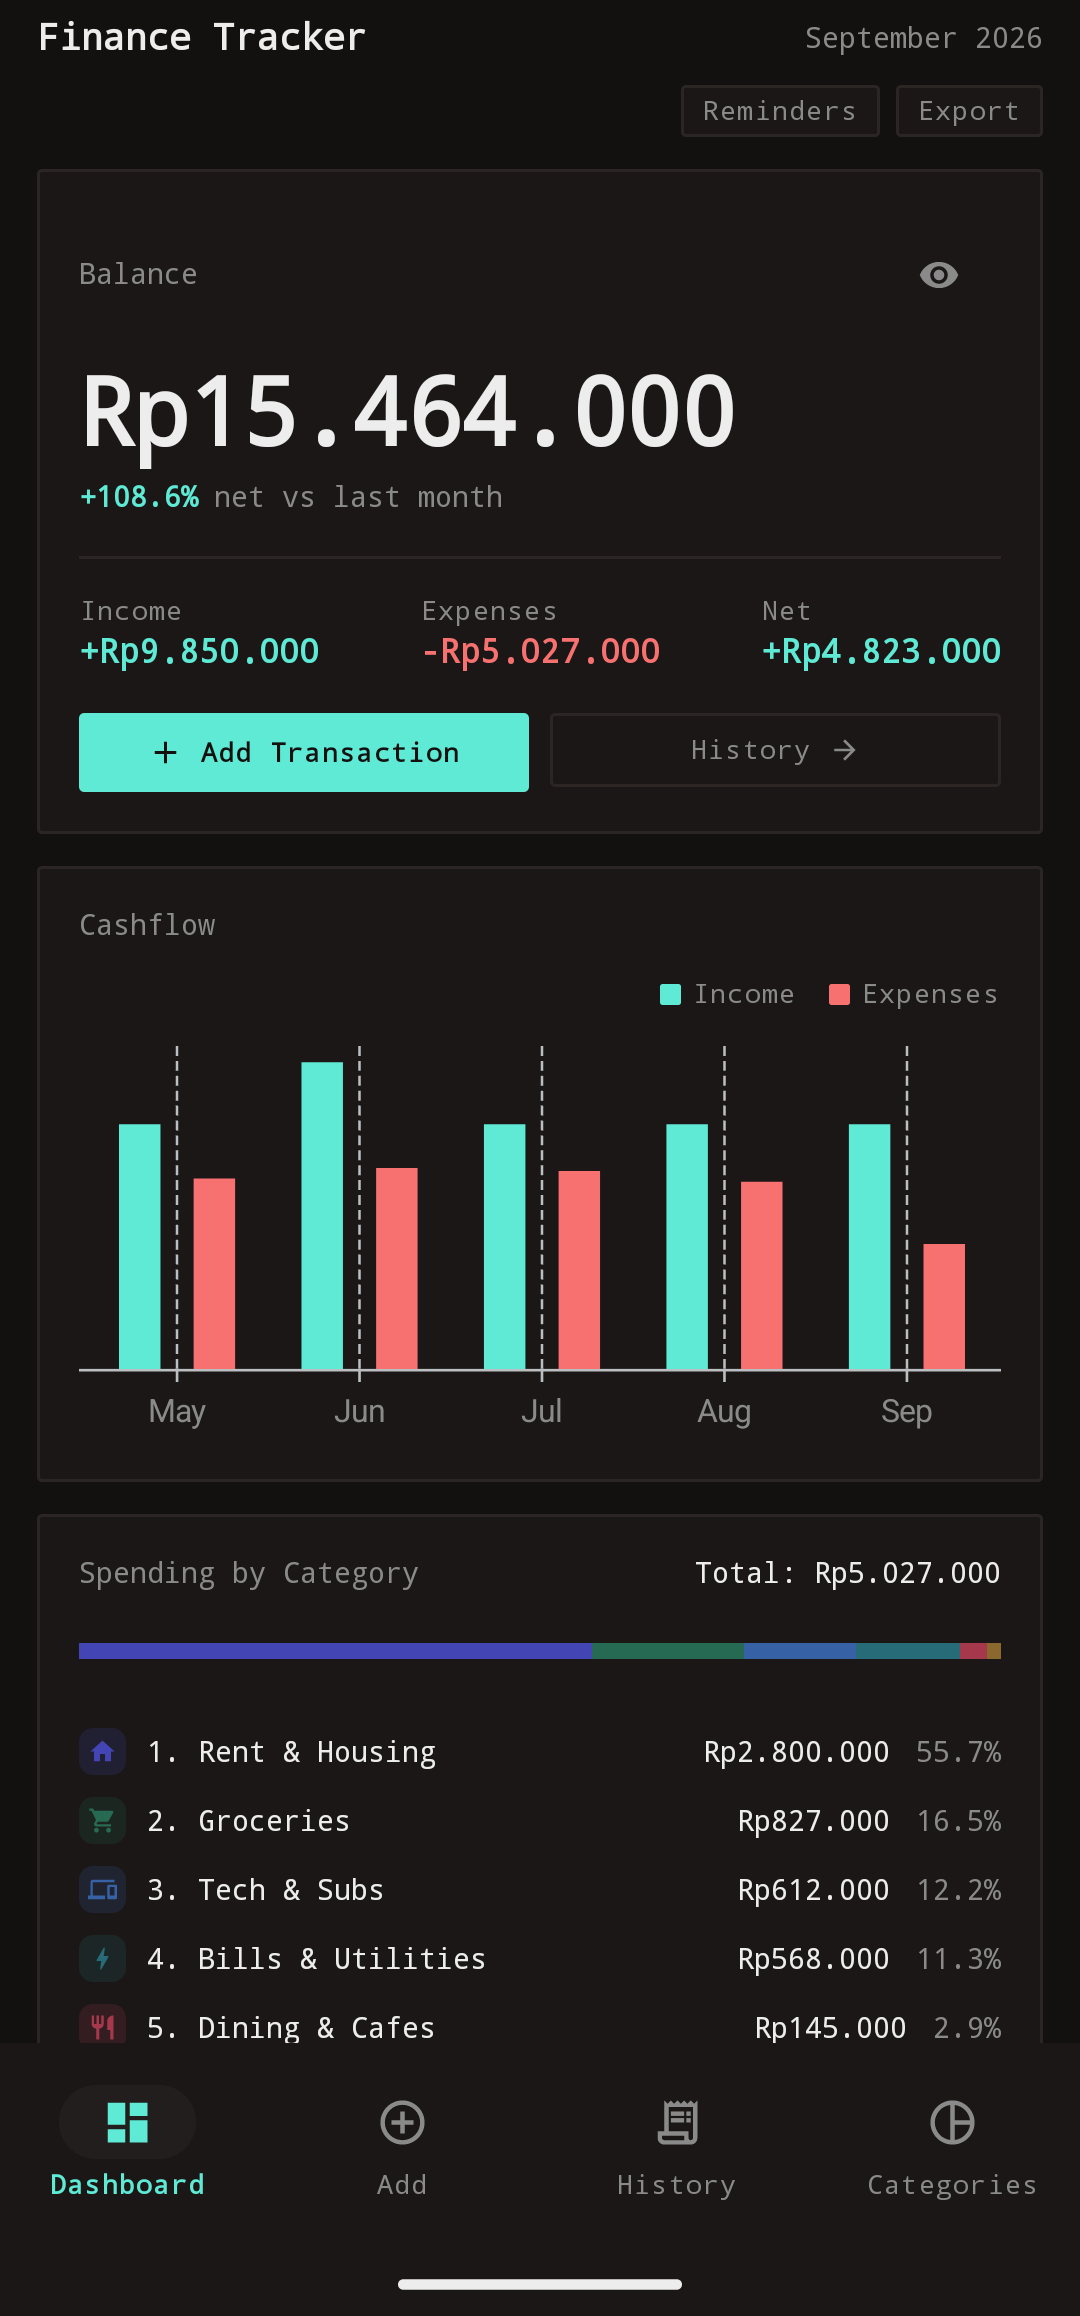
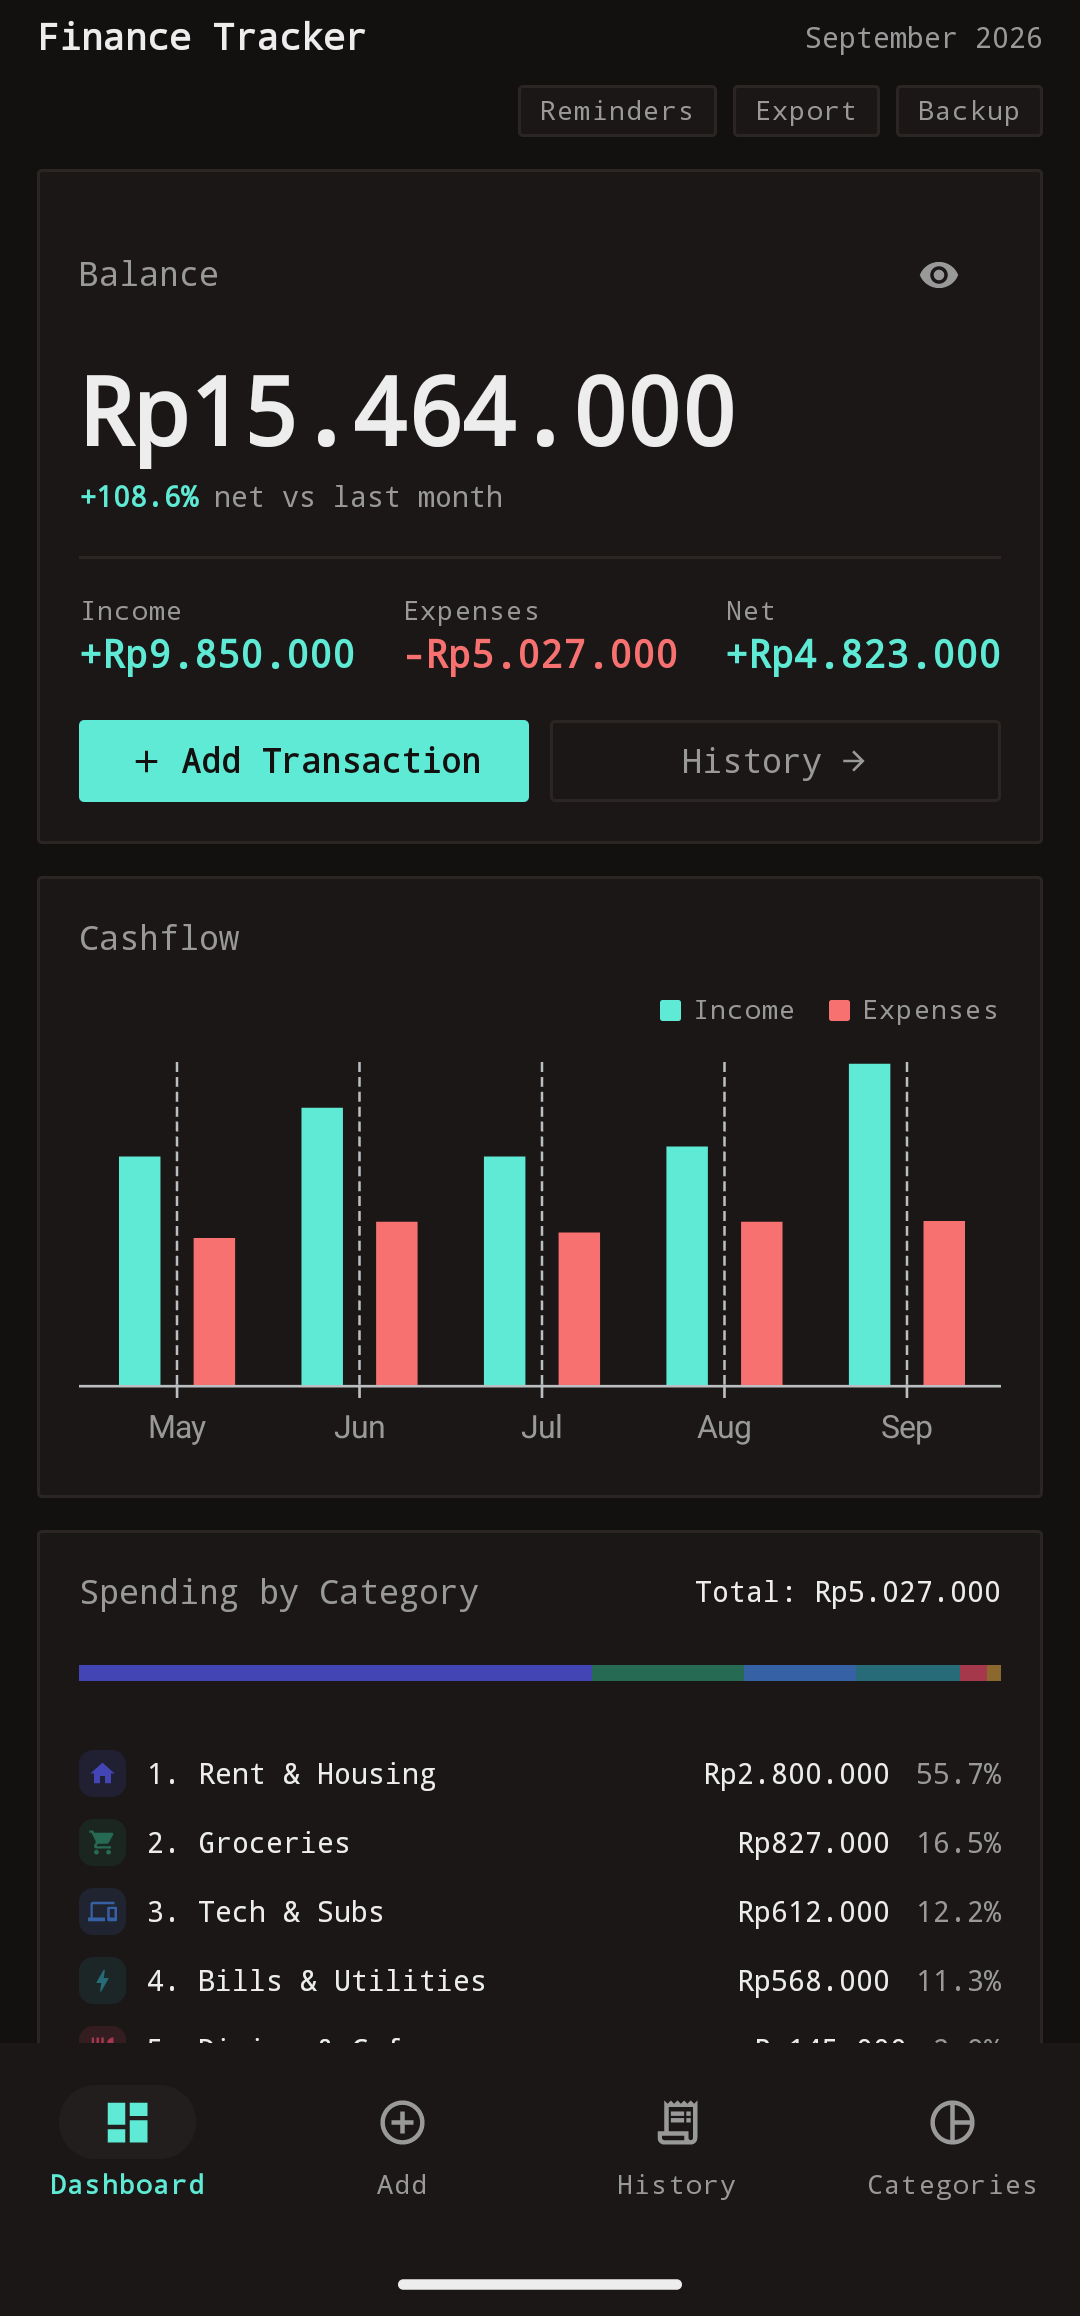
docs: refresh README screenshots (post design-audit) and add Reminders/Export/Backup

diff --git a/README.md b/README.md
@@ -17,29 +17,43 @@ A local-first Android expense & income tracker built with Jetpack Compose.
 
 <table>
   <tr>
-    <td align="center" width="50%">
-      <img src="Asset/screenshots/dashboard.png" width="270" alt="Dashboard"><br>
+    <td align="center" width="33%">
+      <img src="Asset/screenshots/dashboard.png" width="200" alt="Dashboard"><br>
       <b>Dashboard</b> — balance, cashflow, category breakdown
     </td>
-    <td align="center" width="50%">
-      <img src="Asset/screenshots/add.png" width="270" alt="Add transaction"><br>
+    <td align="center" width="33%">
+      <img src="Asset/screenshots/add.png" width="200" alt="Add transaction"><br>
       <b>Add</b> — quick income / expense entry
     </td>
-  </tr>
-  <tr>
-    <td align="center" width="50%">
-      <img src="Asset/screenshots/history.png" width="270" alt="History"><br>
+    <td align="center" width="33%">
+      <img src="Asset/screenshots/history.png" width="200" alt="History"><br>
       <b>History</b> — month-grouped list with per-month totals
     </td>
-    <td align="center" width="50%">
-      <img src="Asset/screenshots/categories.png" width="270" alt="Categories"><br>
+  </tr>
+  <tr>
+    <td align="center" width="33%">
+      <img src="Asset/screenshots/categories.png" width="200" alt="Categories"><br>
       <b>Categories</b> — editable defaults + custom color/icon tiles
+    </td>
+    <td align="center" width="33%">
+      <img src="Asset/screenshots/edit-transaction.png" width="200" alt="Edit transaction"><br>
+      <b>Edit Transaction</b> — full form with amount presets
+    </td>
+    <td align="center" width="33%">
+      <img src="Asset/screenshots/reminders.png" width="200" alt="Recurring reminders"><br>
+      <b>Reminders</b> — recurring templates with next due dates
     </td>
   </tr>
   <tr>
-    <td align="center" colspan="2">
-      <img src="Asset/screenshots/edit-transaction.png" width="270" alt="Edit transaction"><br>
-      <b>Edit Transaction</b> — full form with amount presets
+    <td align="center" width="33%">
+      <img src="Asset/screenshots/export.png" width="200" alt="Export"><br>
+      <b>Export</b> — date-range CSV and JSON export
+    </td>
+    <td align="center" width="33%">
+      <img src="Asset/screenshots/backup.png" width="200" alt="Backup & Restore"><br>
+      <b>Backup</b> — versioned JSON backup and restore
+    </td>
+    <td align="center" width="33%">
     </td>
   </tr>
 </table>
